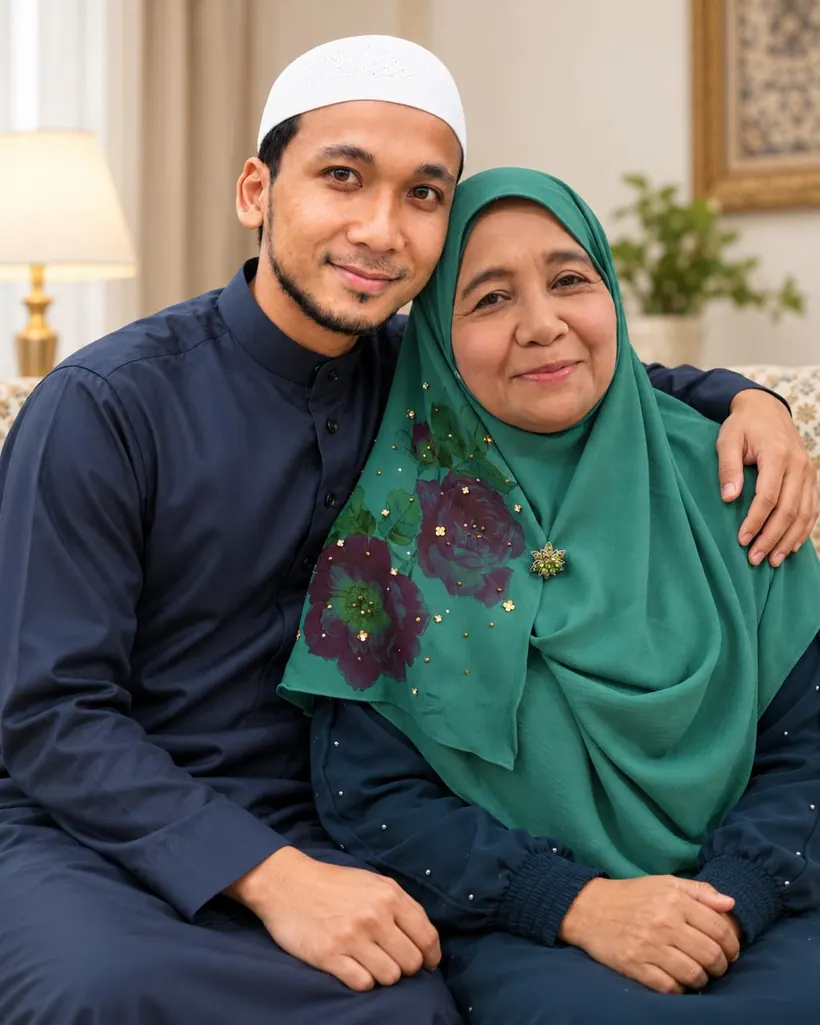
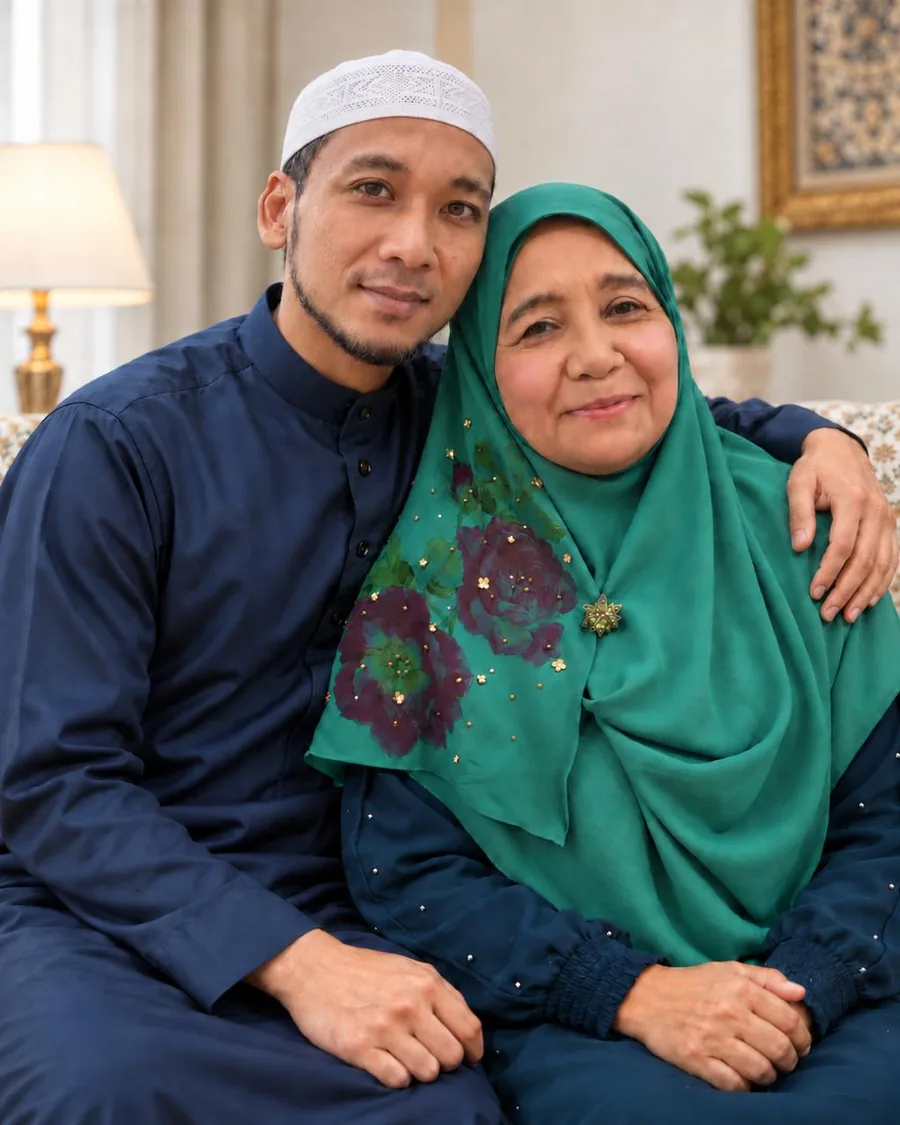
Tukar foto emak: versi natural (Basri peluk emak), 900x1125

diff --git a/index.html b/index.html
@@ -181,7 +181,7 @@ footer .disklaim{font-size:12px;opacity:.6;line-height:1.6;border-top:1px solid 
     <figure class="gambar">
       <picture>
         <source srcset="assets/emak.webp" type="image/webp">
-        <img src="assets/emak.jpg" alt="Ustaz Basri bersama emaknya, Hajjah Rafeah, bidan lebih 40 tahun" width="820" height="1025" loading="lazy">
+        <img src="assets/emak.jpg" alt="Ustaz Basri bersama emaknya, Hajjah Rafeah, bidan lebih 40 tahun" width="900" height="1125" loading="lazy">
       </picture>
       <figcaption>Emak saya, Hajjah Rafeah. Lebih empat puluh tahun sambut bayi. Dari dia saya belajar, ini bukan kerja, ini amanah.</figcaption>
     </figure>
